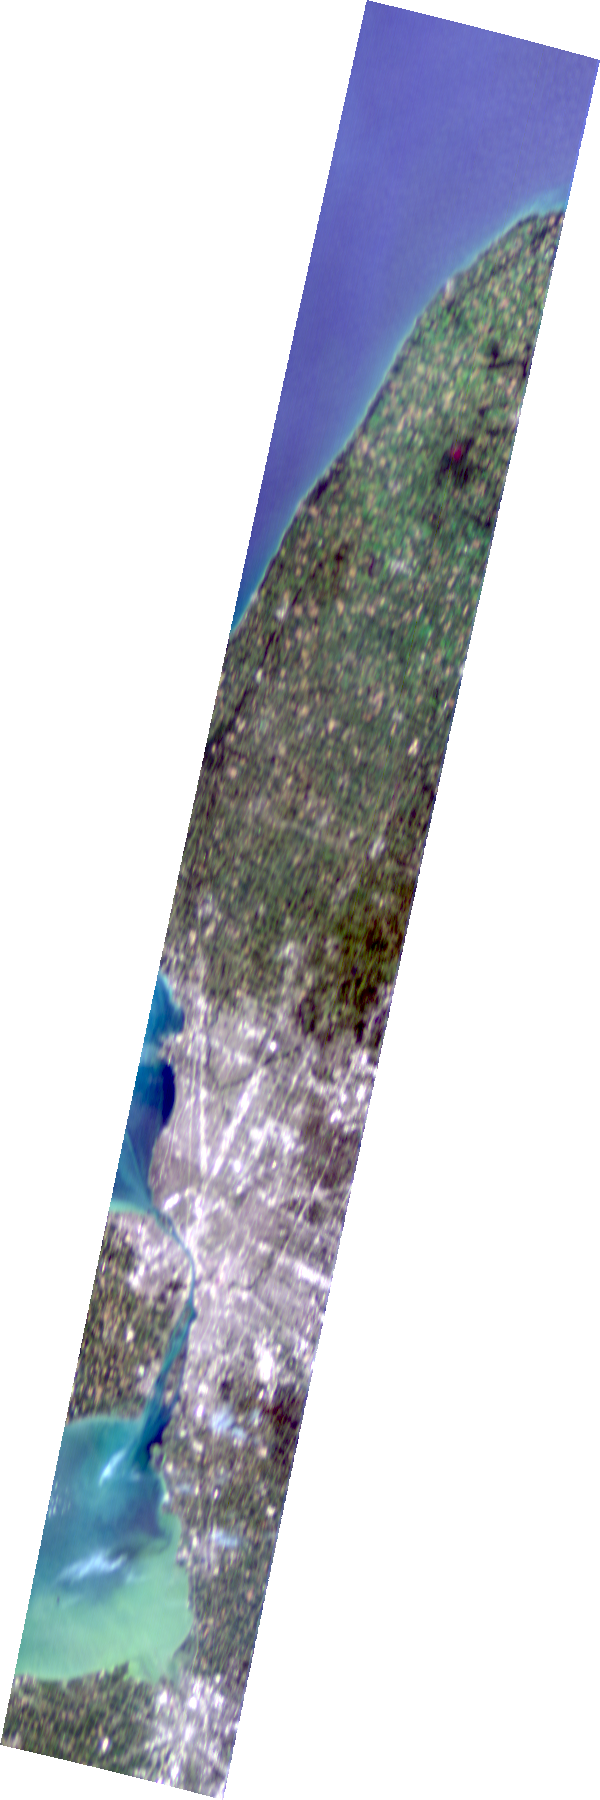
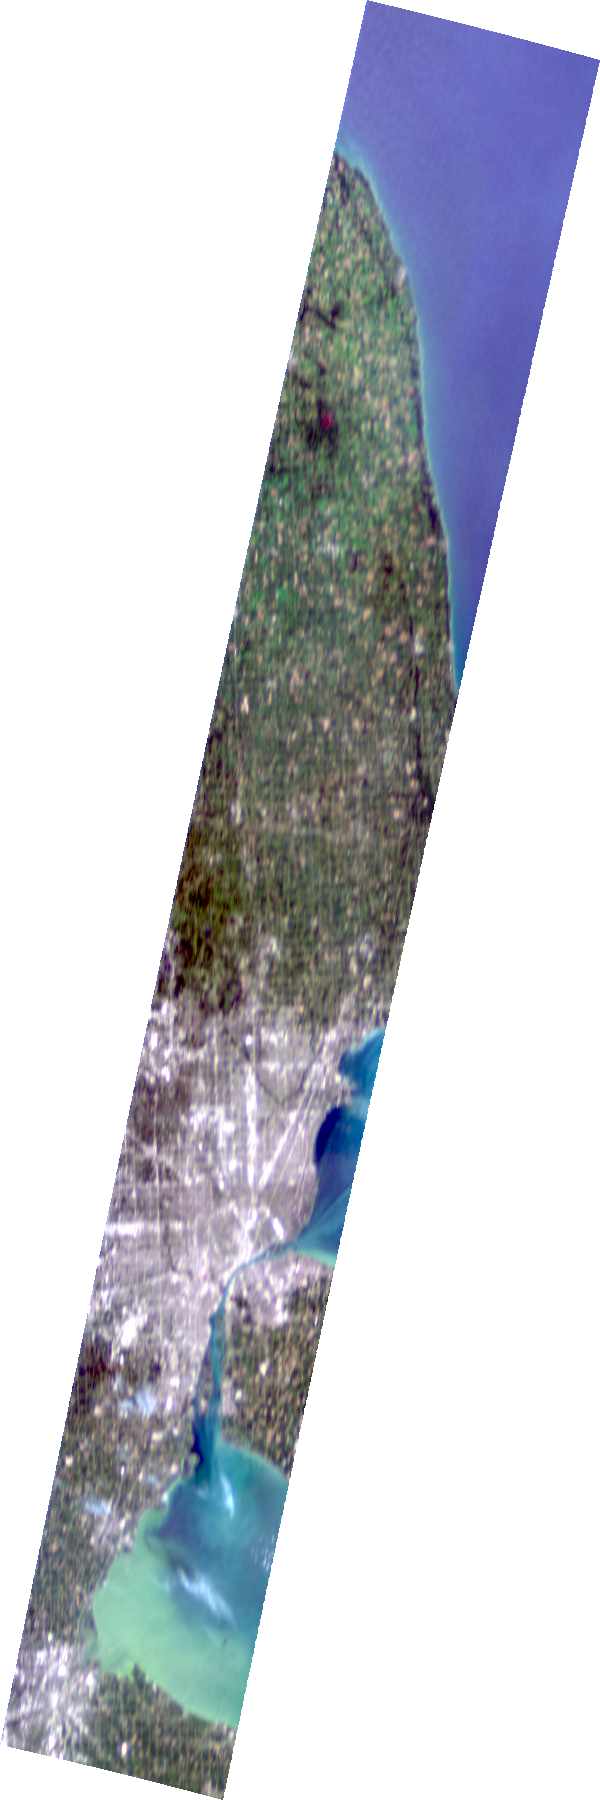
Fix flip argument in BIP and GCP readers

Changed region(s): [[0.0, 0.0622, 0.96, 1.0], [0.99, 0.0311, 1.0, 0.0622]]

diff --git a/readers/hypso1_gcp.py b/readers/hypso1_gcp.py
@@ -47,12 +47,14 @@ class HYPSO1GCPPointsLatLonFileHandler(HYPSO1GCPPointsFileHandler):
         self.longitude_data = gr.longitudes
 
         # Flip or mirror image
-        #flip = fh_kwargs.get("flip", None)
-        #if flip is not None: 
-        #    if flip:
-        #        print('[INFO] Flipping capture ' + self.filename + ' in the cross track dimension.')
-        #        self.latitude_data = self.latitude_data[:, ::-1,]
-        #        self.longitude_data = self.longitude_data[:, ::-1,]
+        flip = fh_kwargs.get("flip", None)
+        if flip is not None and flip: 
+            self.latitude_data = self.latitude_data
+            self.longitude_data = self.longitude_data
+        else:
+            self.latitude_data = self.latitude_data[:, ::-1]
+            self.longitude_data = self.longitude_data[:, ::-1]
+
 
 
     def get_dataset(self, dataset_id, dataset_info):

diff --git a/write_composites.py b/write_composites.py
@@ -28,7 +28,6 @@ datasets_2 = scene_2.available_dataset_names()
 scene_1.load(['latitude', 'longitude', '80', '40', '15'])
 scene_2.load(['latitude', 'longitude', '80', '40', '15'])
 
-
 grid_lats = scene_1['80'].attrs['area'].lats.data
 grid_lons = scene_1['80'].attrs['area'].lons.data
 

diff --git a/readers/hypso1_bip.py b/readers/hypso1_bip.py
@@ -201,7 +201,7 @@ class HYPSO1BIPFileHandler(BaseFileHandler):
 
 
         # Flip or mirror image
-        #datacube = datacube[:, ::-1, :]
+        datacube = datacube[:, ::-1, :]
         #flip = fh_kwargs.get("flip", None)
         #if flip is not None: 
         #    if flip:
